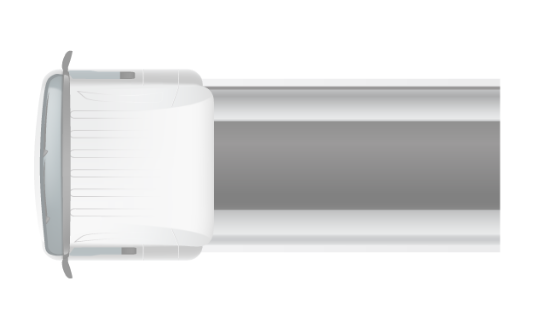
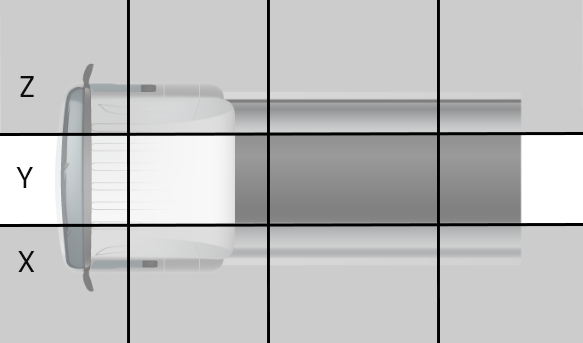
finish eplacement screen

diff --git a/lib/presentation/box_emplacement/box_emplacement_view.dart b/lib/presentation/box_emplacement/box_emplacement_view.dart
@@ -1,11 +1,274 @@
+import 'package:dotted_border/dotted_border.dart';
+import 'package:flutter/cupertino.dart';
+import 'package:flutter/material.dart';
 import 'package:flutter/src/widgets/framework.dart';
 import 'package:flutter/src/widgets/placeholder.dart';
+import 'package:installateur/presentation/box_emplacement/widgets/image_card_widget.dart';
+import 'package:installateur/presentation/resources/assets_manager.dart';
+
+import '../resources/colors_manager.dart';
+import '../resources/fonst_manager.dart';
+import '../resources/values_manager.dart';
+import '../widgets_manager/big_text_widget.dart';
+import '../widgets_manager/button_widget.dart';
+import '../widgets_manager/icon_widget.dart';
+import '../widgets_manager/medium_text_widget.dart';
+import '../widgets_manager/text_field_widget.dart';
 
 class BoxEmplacementView extends StatelessWidget {
   const BoxEmplacementView({super.key});
 
   @override
   Widget build(BuildContext context) {
-    return const Placeholder();
+    return Scaffold(
+      backgroundColor: ColorManager.white,
+      // header
+      appBar: AppBar(
+        leading: Builder(
+          builder: (BuildContext context) {
+            return Padding(
+              padding: EdgeInsets.only(left: AppPadding.wp20),
+              child: IconButton(
+                icon: const Icon(
+                  CupertinoIcons.back,
+                ),
+                onPressed: () {
+                  // Scaffold.of(context).openDrawer();
+                },
+                // tooltip: MaterialLocalizations.of(context).openAppDrawerTooltip,
+              ),
+            );
+          },
+        ),
+        iconTheme: IconThemeData(
+          color: ColorManager.white,
+          size: AppSize.hs25 * 1.3,
+        ),
+        //header style
+        backgroundColor: ColorManager.mainColor,
+        shape: RoundedRectangleBorder(
+          borderRadius: BorderRadius.vertical(
+            bottom: Radius.circular(AppSize.hs10),
+          ),
+        ),
+        centerTitle: true,
+        title: MediumTextWidget(
+          text: "Emlacement",
+          color: ColorManager.white,
+          size: FontSize.fs20,
+        ),
+      ),
+
+      //boby
+      body: SingleChildScrollView(
+        child: Column(
+          crossAxisAlignment: CrossAxisAlignment.start,
+          children: [
+            SizedBox(height: AppSize.hs16 * 2),
+            //box location view
+            Container(
+              padding: EdgeInsets.symmetric(horizontal: AppPadding.wp20),
+              child: Stack(
+                alignment: Alignment.topLeft,
+                children: [
+                  Container(
+                    padding: EdgeInsets.only(top: AppPadding.hp12),
+                    child: Container(
+                      padding: EdgeInsets.only(
+                        top: AppPadding.hp14 * 2,
+                        bottom: AppPadding.hp16 * 2,
+                        left: AppPadding.wp25,
+                        right: AppPadding.wp25,
+                      ),
+                      width: double.maxFinite,
+                      decoration: BoxDecoration(
+                        border: Border.all(
+                          color: ColorManager.whiteGrey,
+                          width: 2,
+                        ),
+                        borderRadius: BorderRadius.circular(3),
+                      ),
+                      child: Column(
+                        mainAxisAlignment: MainAxisAlignment.center,
+                        children: [
+                          // title
+                          Row(
+                            mainAxisAlignment: MainAxisAlignment.center,
+                            children: [
+                              BigTextWidget(
+                                text: "Cliquer sur la zone d'installation",
+                                color: ColorManager.mainColor,
+                                size: FontSize.fs20,
+                              )
+                            ],
+                          ),
+                          SizedBox(height: AppSize.hs16),
+
+                          Column(
+                            children: [
+                              // side truck image
+                              Stack(
+                                children: [
+                                  Container(
+                                    width: double.maxFinite,
+                                    color: ColorManager.whiteGrey,
+                                    child: Image.asset(AssetsManager.truckTop,
+                                        fit: BoxFit.cover),
+                                  ),
+                                  // top red index
+                                  Positioned(
+                                    top: 0,
+                                    left: AppSize.ws25 * 2.7,
+                                    child: Container(
+                                      padding: EdgeInsets.symmetric(
+                                          vertical: AppPadding.hp5 / 3,
+                                          horizontal: AppPadding.wp16),
+                                      color: ColorManager.redColor,
+                                      child: Column(
+                                        children: [
+                                          IconWidget(
+                                            icon: Icons.circle,
+                                            size: AppSize.hs14 * 2,
+                                          ),
+                                          IconWidget(
+                                            icon: CupertinoIcons
+                                                .arrowtriangle_down_fill,
+                                            size: AppSize.hs16,
+                                          ),
+                                        ],
+                                      ),
+                                    ),
+                                  ),
+
+                                  // bottom red index
+                                  Positioned(
+                                    bottom: 0,
+                                    left: AppSize.ws25 * 2.7,
+                                    child: Container(
+                                      padding: EdgeInsets.symmetric(
+                                          vertical: AppPadding.hp5 / 3,
+                                          horizontal: AppPadding.wp16),
+                                      color: ColorManager.redColor,
+                                      child: Column(
+                                        children: [
+                                          IconWidget(
+                                            icon: CupertinoIcons
+                                                .arrowtriangle_up_fill,
+                                            size: AppSize.hs16,
+                                          ),
+                                          IconWidget(
+                                            icon: Icons.circle,
+                                            size: AppSize.hs14 * 2,
+                                          ),
+                                        ],
+                                      ),
+                                    ),
+                                  )
+                                ],
+                              ),
+
+                              // black horizontal line
+                              Container(
+                                width: double.maxFinite,
+                                height: 2,
+                                color: Colors.black,
+                              ),
+
+                              // side truck image
+                              Container(
+                                width: double.maxFinite,
+                                color: ColorManager.whiteGrey,
+                                child: Image.asset(AssetsManager.truckSide,
+                                    fit: BoxFit.cover),
+                              )
+                            ],
+                          )
+                        ],
+                      ),
+                    ),
+                  ),
+                  Container(
+                    margin: EdgeInsets.only(left: AppMargin.wm5),
+                    padding: const EdgeInsets.symmetric(horizontal: 10),
+                    color: Colors.white,
+                    child: MediumTextWidget(
+                      text: "Boitier",
+                      color: ColorManager.redColor,
+                      size: FontSize.fs18,
+                    ),
+                  )
+                ],
+              ),
+            ),
+
+            SizedBox(height: AppSize.hs25),
+            // add photos
+            Container(
+              padding: EdgeInsets.symmetric(horizontal: AppPadding.wp20),
+              child: Column(
+                children: [
+                  MediumTextWidget(
+                    text: "Ajouter des photos de l'installation",
+                    color: ColorManager.mainColor,
+                    size: FontSize.fs20,
+                  ),
+                  SizedBox(height: AppSize.hs14),
+                  DottedBorder(
+                    borderType: BorderType.RRect,
+                    radius: Radius.circular(AppSize.hs5),
+                    dashPattern: [AppSize.ws8, AppSize.ws5],
+                    color: ColorManager.grey,
+                    strokeWidth: AppSize.hs5 / 2,
+                    child: Container(
+                      width: double.maxFinite,
+                      padding: EdgeInsets.symmetric(vertical: AppPadding.hp10),
+                      child: IconWidget(
+                        icon: CupertinoIcons.camera_fill,
+                        iconColor: ColorManager.mainColor,
+                        size: AppSize.hs14 * 2,
+                      ),
+                    ),
+                  ),
+                ],
+              ),
+            ),
+
+            SizedBox(height: AppSize.hs20),
+            // list of images
+            SizedBox(
+              height: AppSize.hs100 * 1.2,
+              child: ListView.builder(
+                scrollDirection: Axis.horizontal,
+                itemCount: 5,
+                itemBuilder: (context, index) => const ImageCartWidget(),
+              ),
+            ),
+            SizedBox(height: AppSize.hs16),
+          ],
+        ),
+      ),
+      bottomNavigationBar: Container(
+        height: AppSize.hs100,
+        padding: EdgeInsets.symmetric(
+            vertical: AppPadding.hp16, horizontal: AppPadding.wp20),
+        decoration: BoxDecoration(
+          color: ColorManager.white,
+          boxShadow: [
+            BoxShadow(
+              blurRadius: AppSize.hs5,
+              color: ColorManager.whiteGrey,
+              offset: const Offset(0, 0),
+            ),
+          ],
+        ),
+        child: Center(
+          child: ButtonWidget(
+            text: "VALIDER",
+            hdn: false,
+            textSize: FontSize.fs20,
+          ),
+        ),
+      ),
+    );
   }
 }

diff --git a/lib/presentation/box_emplacement/widgets/image_card_widget.dart b/lib/presentation/box_emplacement/widgets/image_card_widget.dart
@@ -1,0 +1,51 @@
+import 'package:flutter/cupertino.dart';
+import 'package:flutter/material.dart';
+import '../../resources/assets_manager.dart';
+import '../../resources/colors_manager.dart';
+import '../../resources/values_manager.dart';
+import '../../widgets_manager/icon_widget.dart';
+
+class ImageCartWidget extends StatelessWidget {
+  const ImageCartWidget({super.key});
+
+  @override
+  Widget build(BuildContext context) {
+    return Container(
+      padding: EdgeInsets.only(left: AppPadding.wp8),
+      child: Stack(
+        alignment: Alignment.topRight,
+        children: [
+          Container(
+            padding: EdgeInsets.all(AppPadding.hp5),
+            child: Container(
+              width: AppSize.ws100,
+              height: AppSize.hs100,
+              decoration: BoxDecoration(
+                color: ColorManager.mainColor,
+                borderRadius: BorderRadius.circular(AppSize.hs10),
+                image: const DecorationImage(
+                  image: AssetImage(
+                    AssetsManager.imgInstallation,
+                  ),
+                  fit: BoxFit.cover,
+                ),
+              ),
+            ),
+          ),
+          Container(
+            width: AppSize.ws25,
+            height: AppSize.ws25,
+            decoration: BoxDecoration(
+              color: Colors.red.shade800,
+              borderRadius: BorderRadius.circular(AppSize.ws25 / 2),
+            ),
+            child: IconWidget(
+              icon: CupertinoIcons.clear,
+              size: AppSize.hs18,
+            ),
+          )
+        ],
+      ),
+    );
+  }
+}

diff --git a/lib/presentation/box_details/box_details_view.dart b/lib/presentation/box_details/box_details_view.dart
@@ -305,10 +305,32 @@ class BoxDetailsView extends StatelessWidget {
                 ],
               ),
               SizedBox(height: AppSize.hs25 * 2),
-              //button
-              ButtonWidget(text: "DIAGNOSTIC DU BOITIER", hdn: false),
               SizedBox(height: AppSize.hs25),
             ],
+          ),
+        ),
+      ),
+
+      //footer
+      bottomNavigationBar: Container(
+        height: AppSize.hs100,
+        padding: EdgeInsets.symmetric(
+            vertical: AppPadding.hp16, horizontal: AppPadding.wp20),
+        decoration: BoxDecoration(
+          color: ColorManager.white,
+          boxShadow: [
+            BoxShadow(
+              blurRadius: AppSize.hs5,
+              color: ColorManager.whiteGrey,
+              offset: const Offset(0, 0),
+            ),
+          ],
+        ),
+        child: Center(
+          child: ButtonWidget(
+            text: "DIAGNOSTIC DU BOITIER",
+            hdn: false,
+            textSize: FontSize.fs20,
           ),
         ),
       ),

diff --git a/lib/main.dart b/lib/main.dart
@@ -7,6 +7,7 @@ import 'package:installateur/presentation/splash/splash_view.dart';
 import 'package:installateur/test.dart';
 
 import 'presentation/box_details/box_details_view.dart';
+import 'presentation/box_emplacement/box_emplacement_view.dart';
 import 'presentation/box_table/box_table_view.dart';
 
 void main() {
@@ -24,6 +25,6 @@ class MyApp extends StatelessWidget {
           primarySwatch: Colors.blue,
         ),
         debugShowCheckedModeBanner: false,
-        home: BoxDetailsView());
+        home: BoxEmplacementView());
   }
 }

diff --git a/lib/presentation/resources/assets_manager.dart b/lib/presentation/resources/assets_manager.dart
@@ -8,4 +8,7 @@ class AssetsManager {
   static const String navBarBackground = "$imagePath/navbar-background.png";
   static const String settingBackground = "$imagePath/settings.png";
   static const String login = "$imagePath/onboarding_logo1.svg";
+  static const String truckTop = "$imagePath/truck_top_view.png";
+  static const String truckSide = "$imagePath/truck_side_view.png";
+  static const String imgInstallation = "$imagePath/img_installation.png";
 }

diff --git a/lib/presentation/box_table/box_table_view.dart b/lib/presentation/box_table/box_table_view.dart
@@ -61,7 +61,7 @@ class BoxTableView extends StatelessWidget {
           Padding(
             padding: EdgeInsets.only(right: AppPadding.wp20),
             child: IconWidget(
-              icon: Icons.notifications,
+              icon: CupertinoIcons.wrench_fill,
               size: AppSize.hs25 * 1.3,
             ),
           ),
